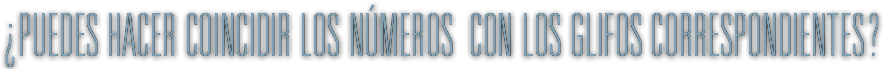
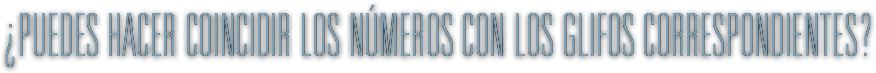
Fixed Spanish headline (extra space)

diff --git a/source/css/maya.css b/source/css/maya.css
@@ -67,7 +67,7 @@ h1 {
   background: url(../../assets/images/text/headline-eng.png) no-repeat;
 }
 body.spanish #wrapper h1.text-replacement {
-  width: 884px;
+  width: 876px;
   height: 77px;
   background: url(../../assets/images/text/headline-esp.png) no-repeat;
   padding-bottom: 14px;
